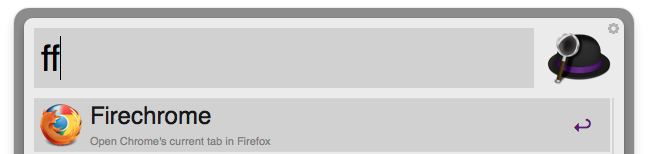
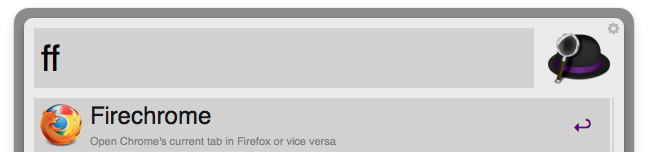
polished Pull Request #2

diff --git a/README.md b/README.md
@@ -3,24 +3,24 @@ alfred-firechrome
 
 Alfred Workflow to open Chrome's current tab in Firefox by using `ff` keyword. If Firefox is currently active then it works in reverse, i.e. it'll open Firefox's current tab in Chrome.
 
-I use it in webdevelopment to check if a website is looking good in Firefox.
+I use it in webdevelopment to check if a website is looking good in both Browsers.
 
 ![Firechrome in Action](https://raw.github.com/LeEnno/alfred-firechrome/master/screenshot_ff.png)
 
-You can also use the keyword 'iff' to open the currently open Chrome tab in Firefox's Private Browsing mode. If Firefox is your currently active window, it'll open a new Chrome window in Incognito mode.
+You can also use the keyword 'iff' to open the Chrome's current tab in Firefox's Private Browsing mode. If Firefox is your currently active window, it'll open a new Chrome window in Incognito mode.
 
 Usage
 -----
 
 1. Open a URL in Chrome or Firefox
 2. Trigger Alfred (normally ⌥Space)
-3. Type `ff` and Enter.
+3. Type `ff` (or `iff` for Incognito/Safe Browsing) and Enter.
 
 Notes
 -----
 
 You can also start typing `Firechrome` as a whole word if you struggle with memorizing the short keyword. Alfred should show it as a result which you can select.
 
-If you don't like `ff` as hotkey, change it to what you like by double clciking the corresponding pane in Alfred's Workflow section. This applies to other keywords as well. Refer to the screenshot below.
+If you don't like `ff` or `iff` as keywords, change them to what you like by double clicking the corresponding pane in Alfred's Workflow section. This applies to other keywords as well. Refer to the screenshot below.
 
 ![Workflow in Alfred](https://raw.github.com/LeEnno/alfred-firechrome/master/screenshot_workflow.png)
